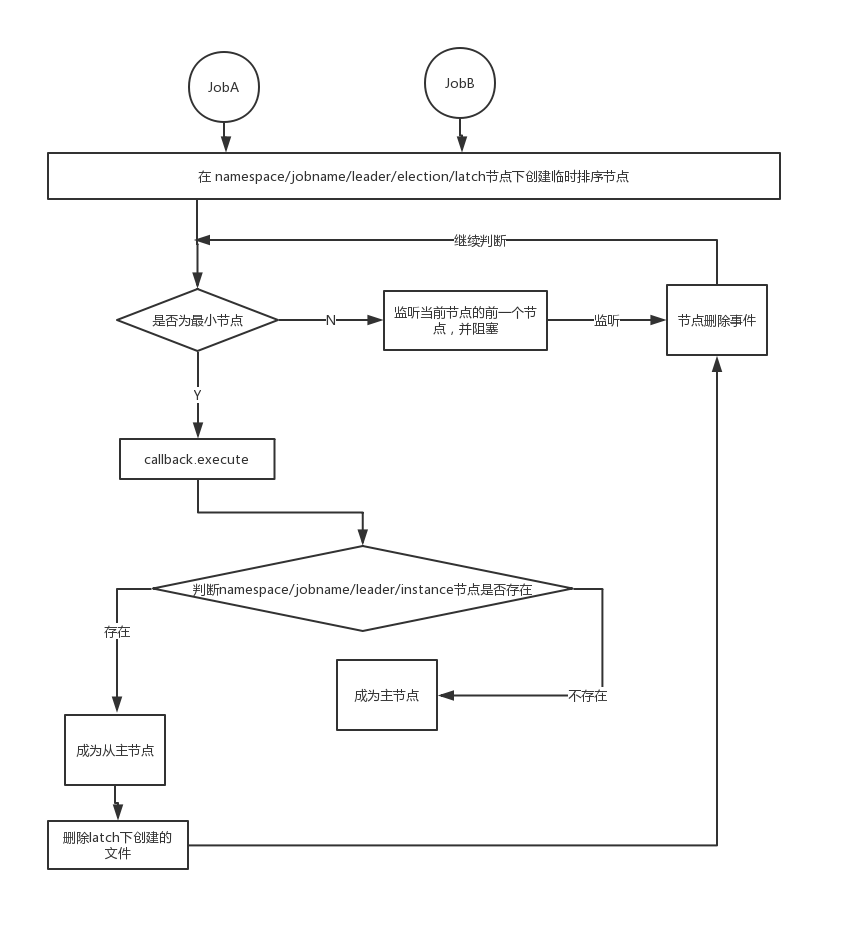
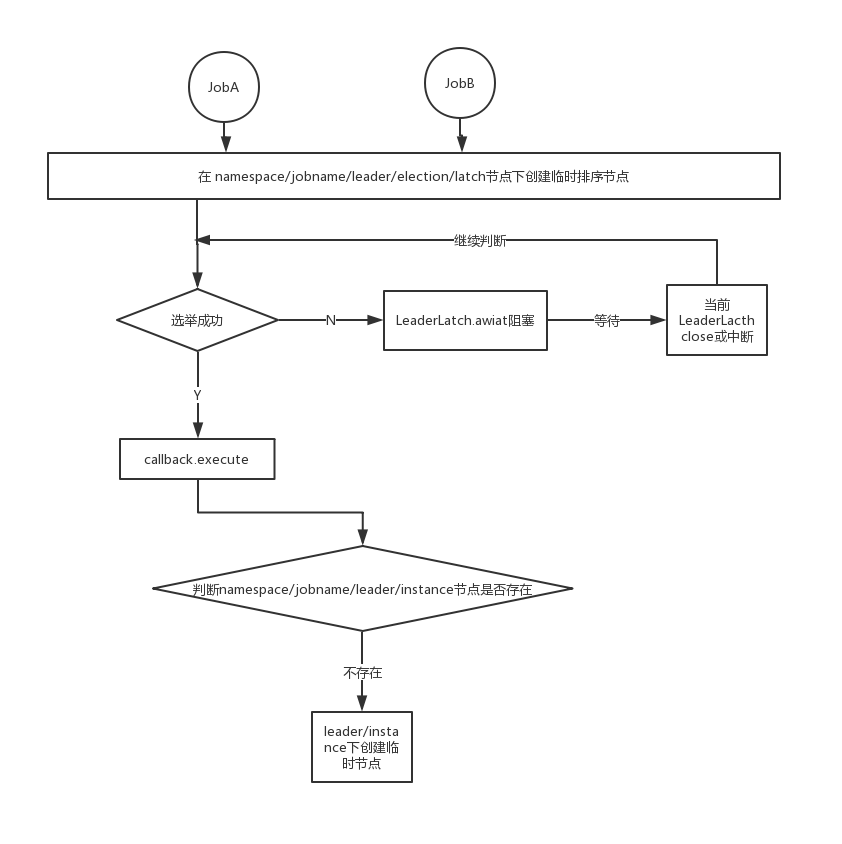
更改图片

diff --git a/docs/syn/elastic-startup.md b/docs/syn/elastic-startup.md
@@ -14,9 +14,9 @@ public void registerStartUpInfo(final boolean enabled) {
     listenerManager.startAllListeners();
     // 选主
     leaderService.electLeader();
-    // 注册并持久化服务器信息
+    // 注册并持久化服务器信息(server信息)
     serverService.persistOnline(enabled);
-    // 注册并持久化作业运行实例
+    // 注册并持久化作业运行实例(instance信息)
     instanceService.persistOnline();
     // 设置是否需要重新分片
     shardingService.setReshardingFlag();
@@ -57,6 +57,7 @@ public void addDataListener(final TreeCacheListener listener) {
 ```
 首先获取TreeCache，然后使用`cahce.getListenable().addListener(TreeCacheListener)` 加入zk监听器中
 
+
 #### ElectionListenerManager选主
 
 `ElectionListenerManager`监听器是用来选举主节点的，执行的方法是`LeaderService.electLeader`:
@@ -89,7 +90,7 @@ public void executeInLeader(final String latchNode, final LeaderExecutionCallbac
 1. CuratorFramework client：curator框架客户端
 2. latchPath：锁节点路径, 这里的路径为`namespace/ {Jobname}/leader/election/latch`
 
-上述步骤1，2启动 `LeaderLatch`，主要过程是去锁节点下去创建一个临时排序节点，如果创建的节点序号最小，await方法就返回，否则在前一个节点监听该节点事件，并阻塞。
+上述步骤1，2启动 `LeaderLatch`，这是zk客户端`curator`的方法，如果LeaderLatch是主节点，就返回，否则阻塞在这里等待下一次选举。
 
 如果获得了分布式锁后，执行callback回调方法：`LeaderService$LeaderElectionExecutionCallback`:
 ```
@@ -109,3 +110,8 @@ class LeaderElectionExecutionCallback implements LeaderExecutionCallback {
 
 整个选主的流程是：
 ![](../../images/sync/elastic-leader.png)
+
+
+### 参考资料
+- [elastic-job服务初始化](https://blog.csdn.net/qq924862077/article/details/82858694)
+- [zookeeper客户端curator的使用](https://www.jianshu.com/p/fc502570bf24)
